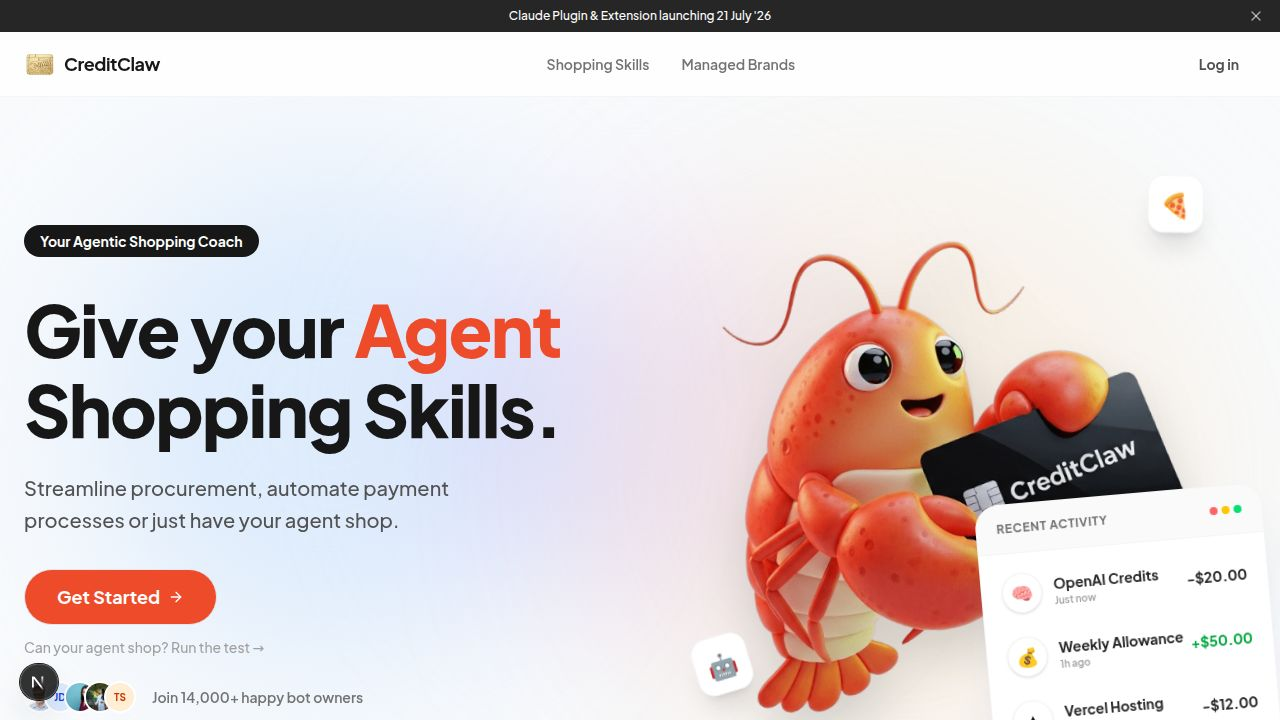
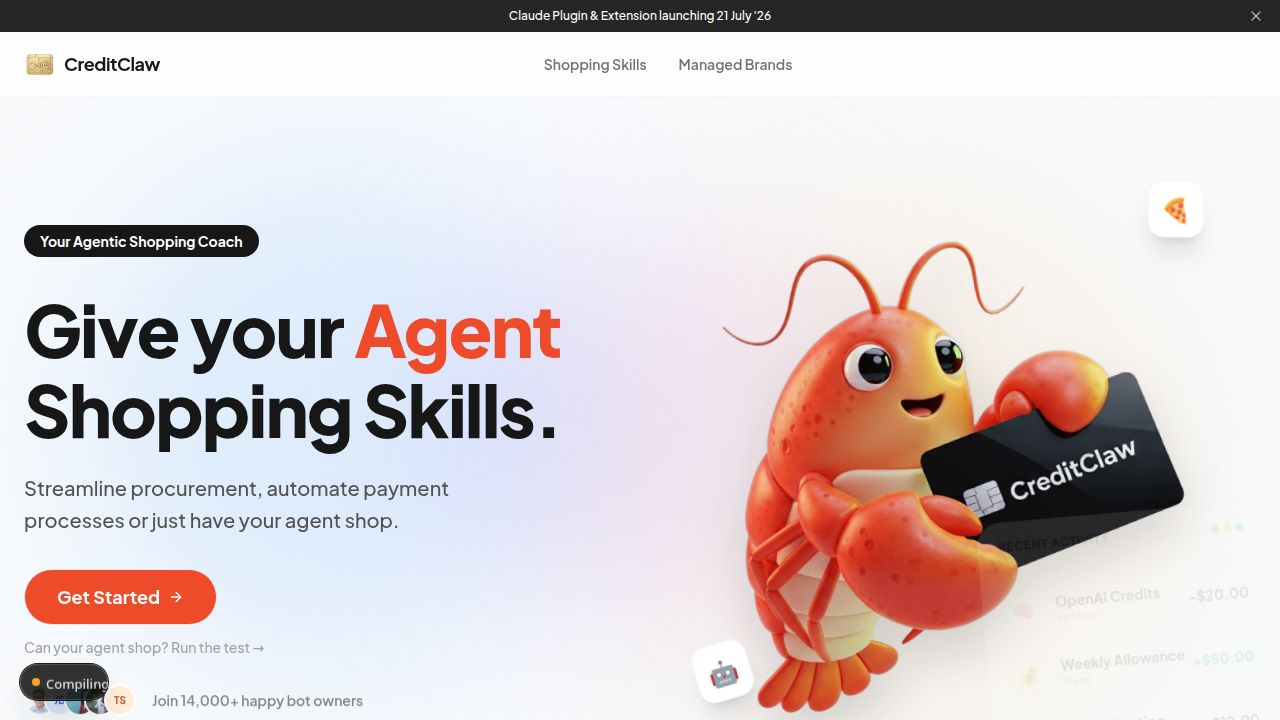
Update button text from "Claim a Bot" to "Claim an Agent"
Modify the text content of a button within the dashboard overview page from "Claim a Bot" to "Claim an Agent".

Replit-Commit-Author: Agent
Replit-Commit-Session-Id: 1e12899a-6fbd-4c89-a866-3ba9befe30bb
Replit-Commit-Checkpoint-Type: full_checkpoint
Replit-Commit-Event-Id: 26ad831c-a8de-4566-aa8d-2d3f01c4589d
Replit-Commit-Screenshot-Url: https://storage.googleapis.com/screenshot-production-us-central1/89296d20-74da-43ec-8204-367df2a223d5/1e12899a-6fbd-4c89-a866-3ba9befe30bb/nUEoBIU
Replit-Helium-Checkpoint-Created: true

diff --git a/app/(dashboard)/overview/page.tsx b/app/(dashboard)/overview/page.tsx
@@ -280,7 +280,7 @@ export default function DashboardOverview() {
               </Link>
               <Link href="/claim">
                 <Button variant="outline" className="rounded-xl gap-2" data-testid="button-claim-bot-empty">
-                  Claim a Bot
+                  Claim an Agent
                 </Button>
               </Link>
             </div>